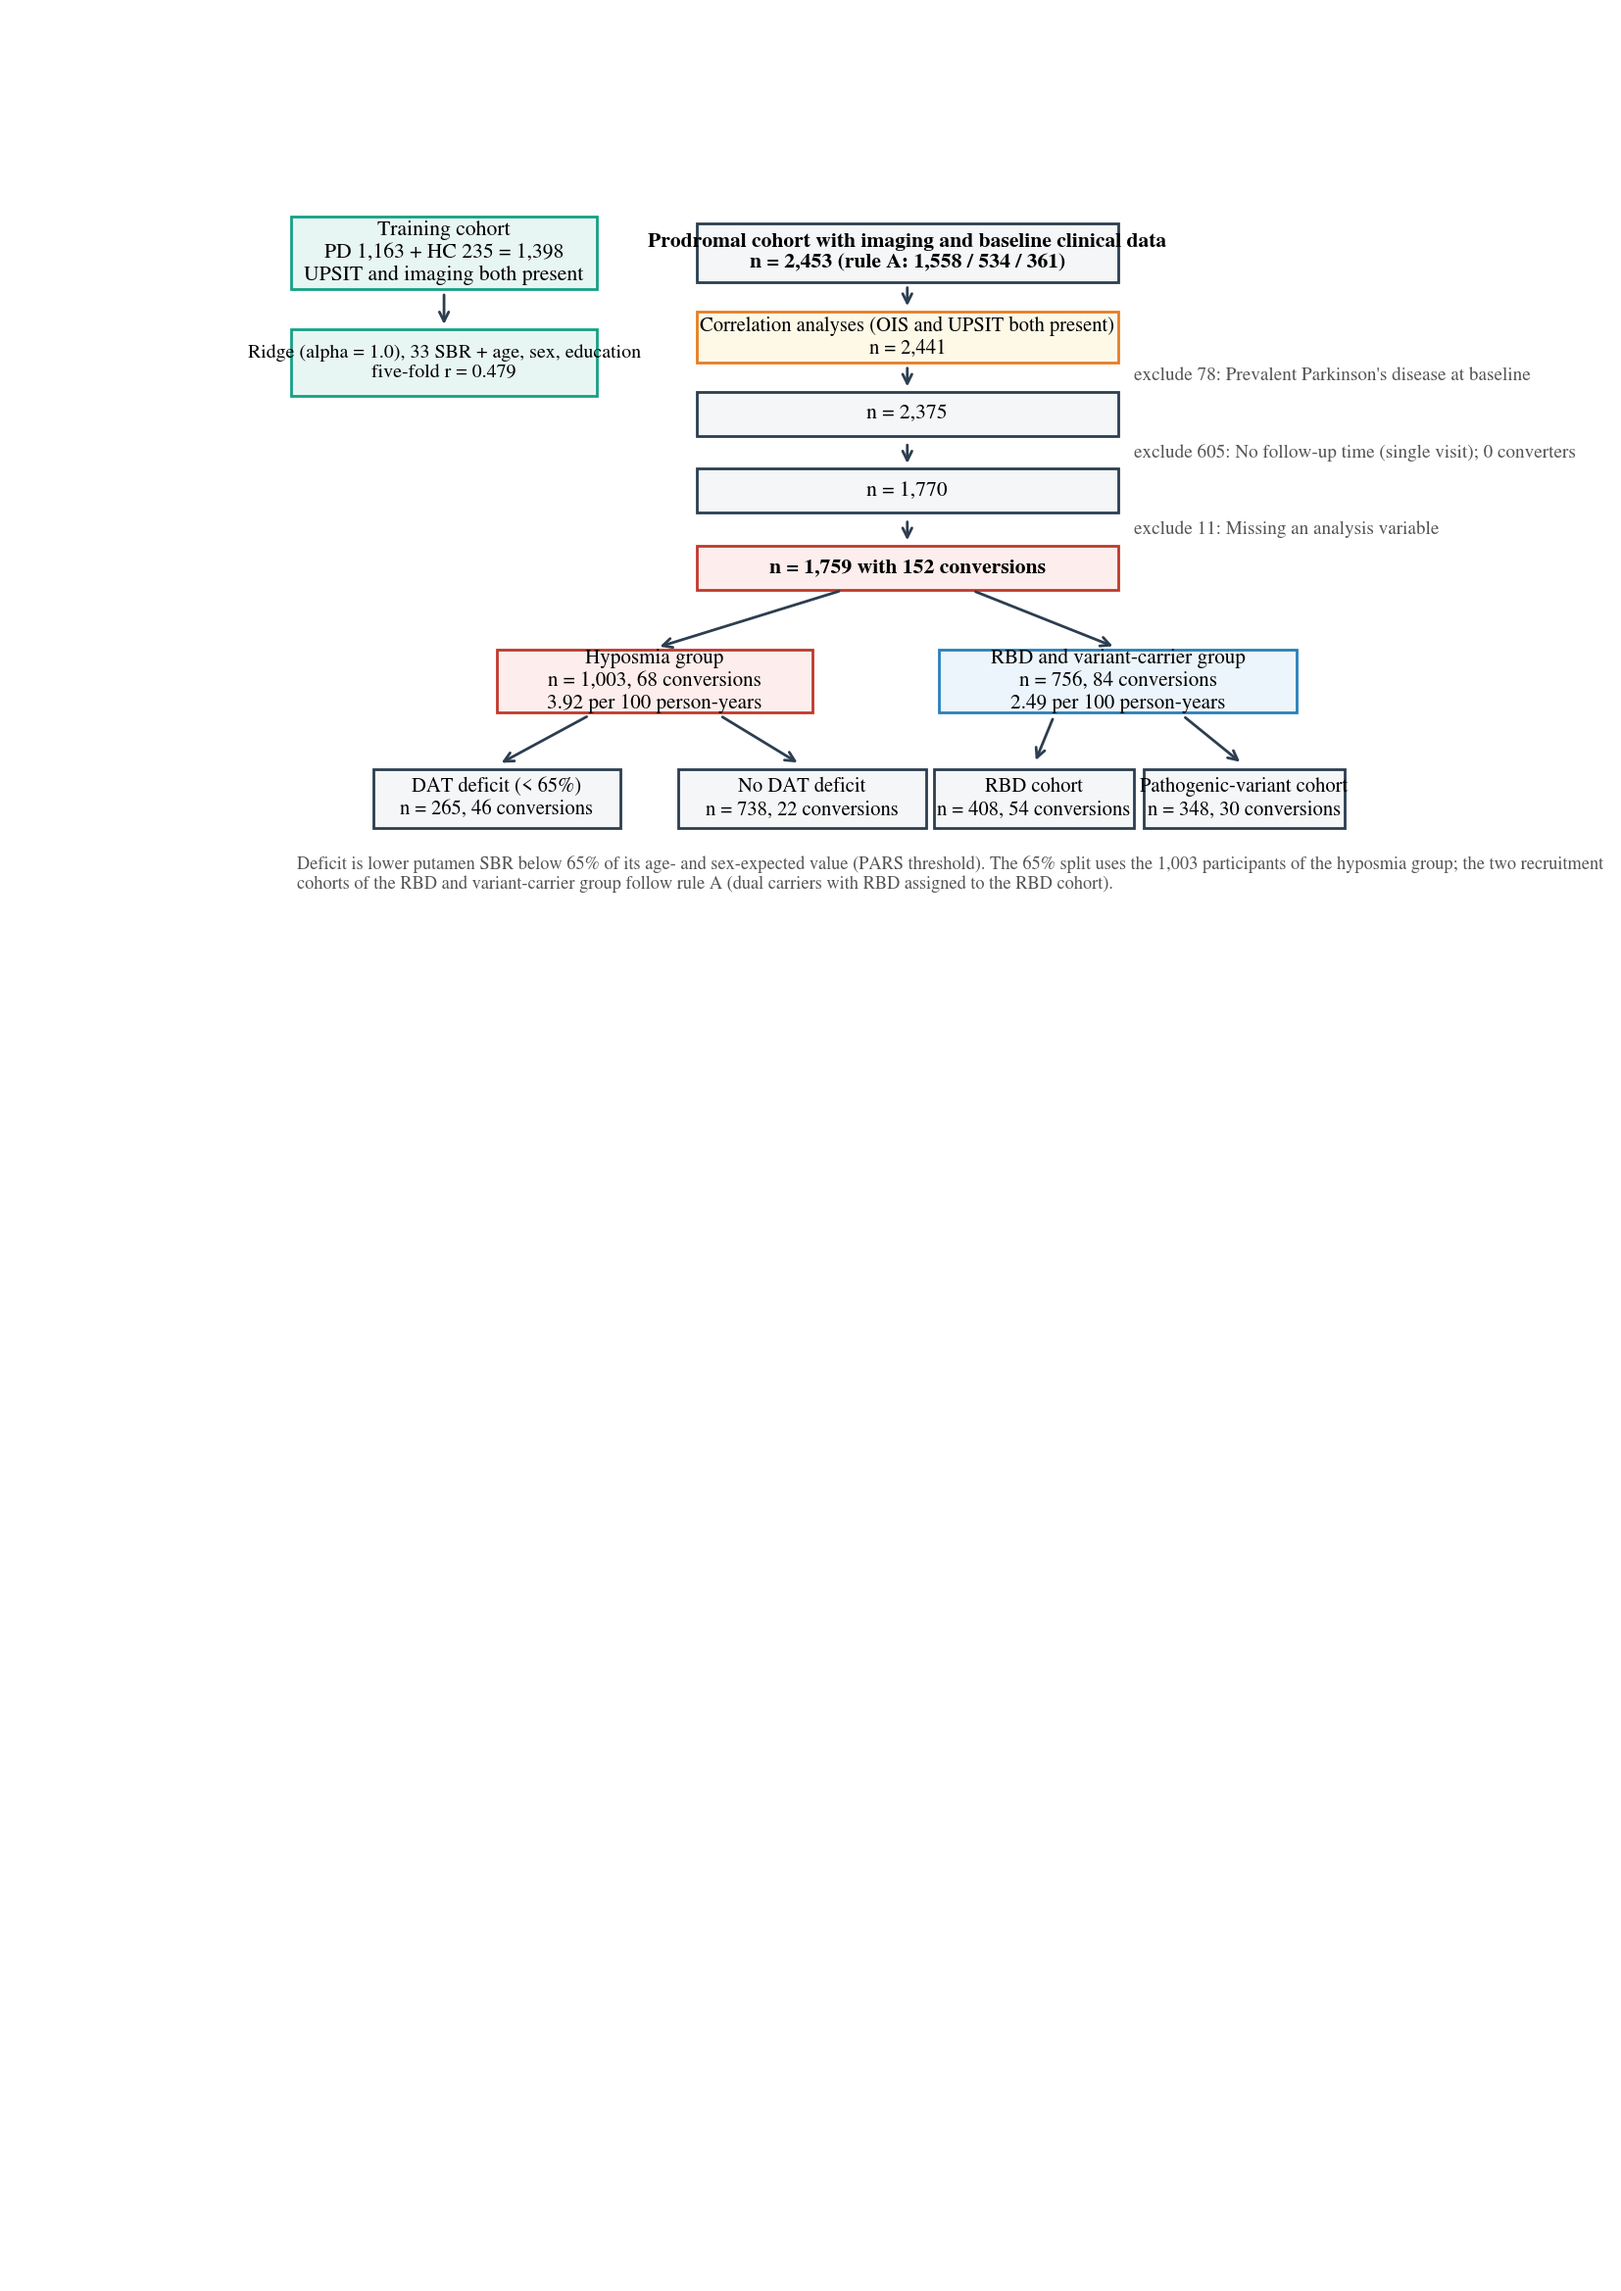
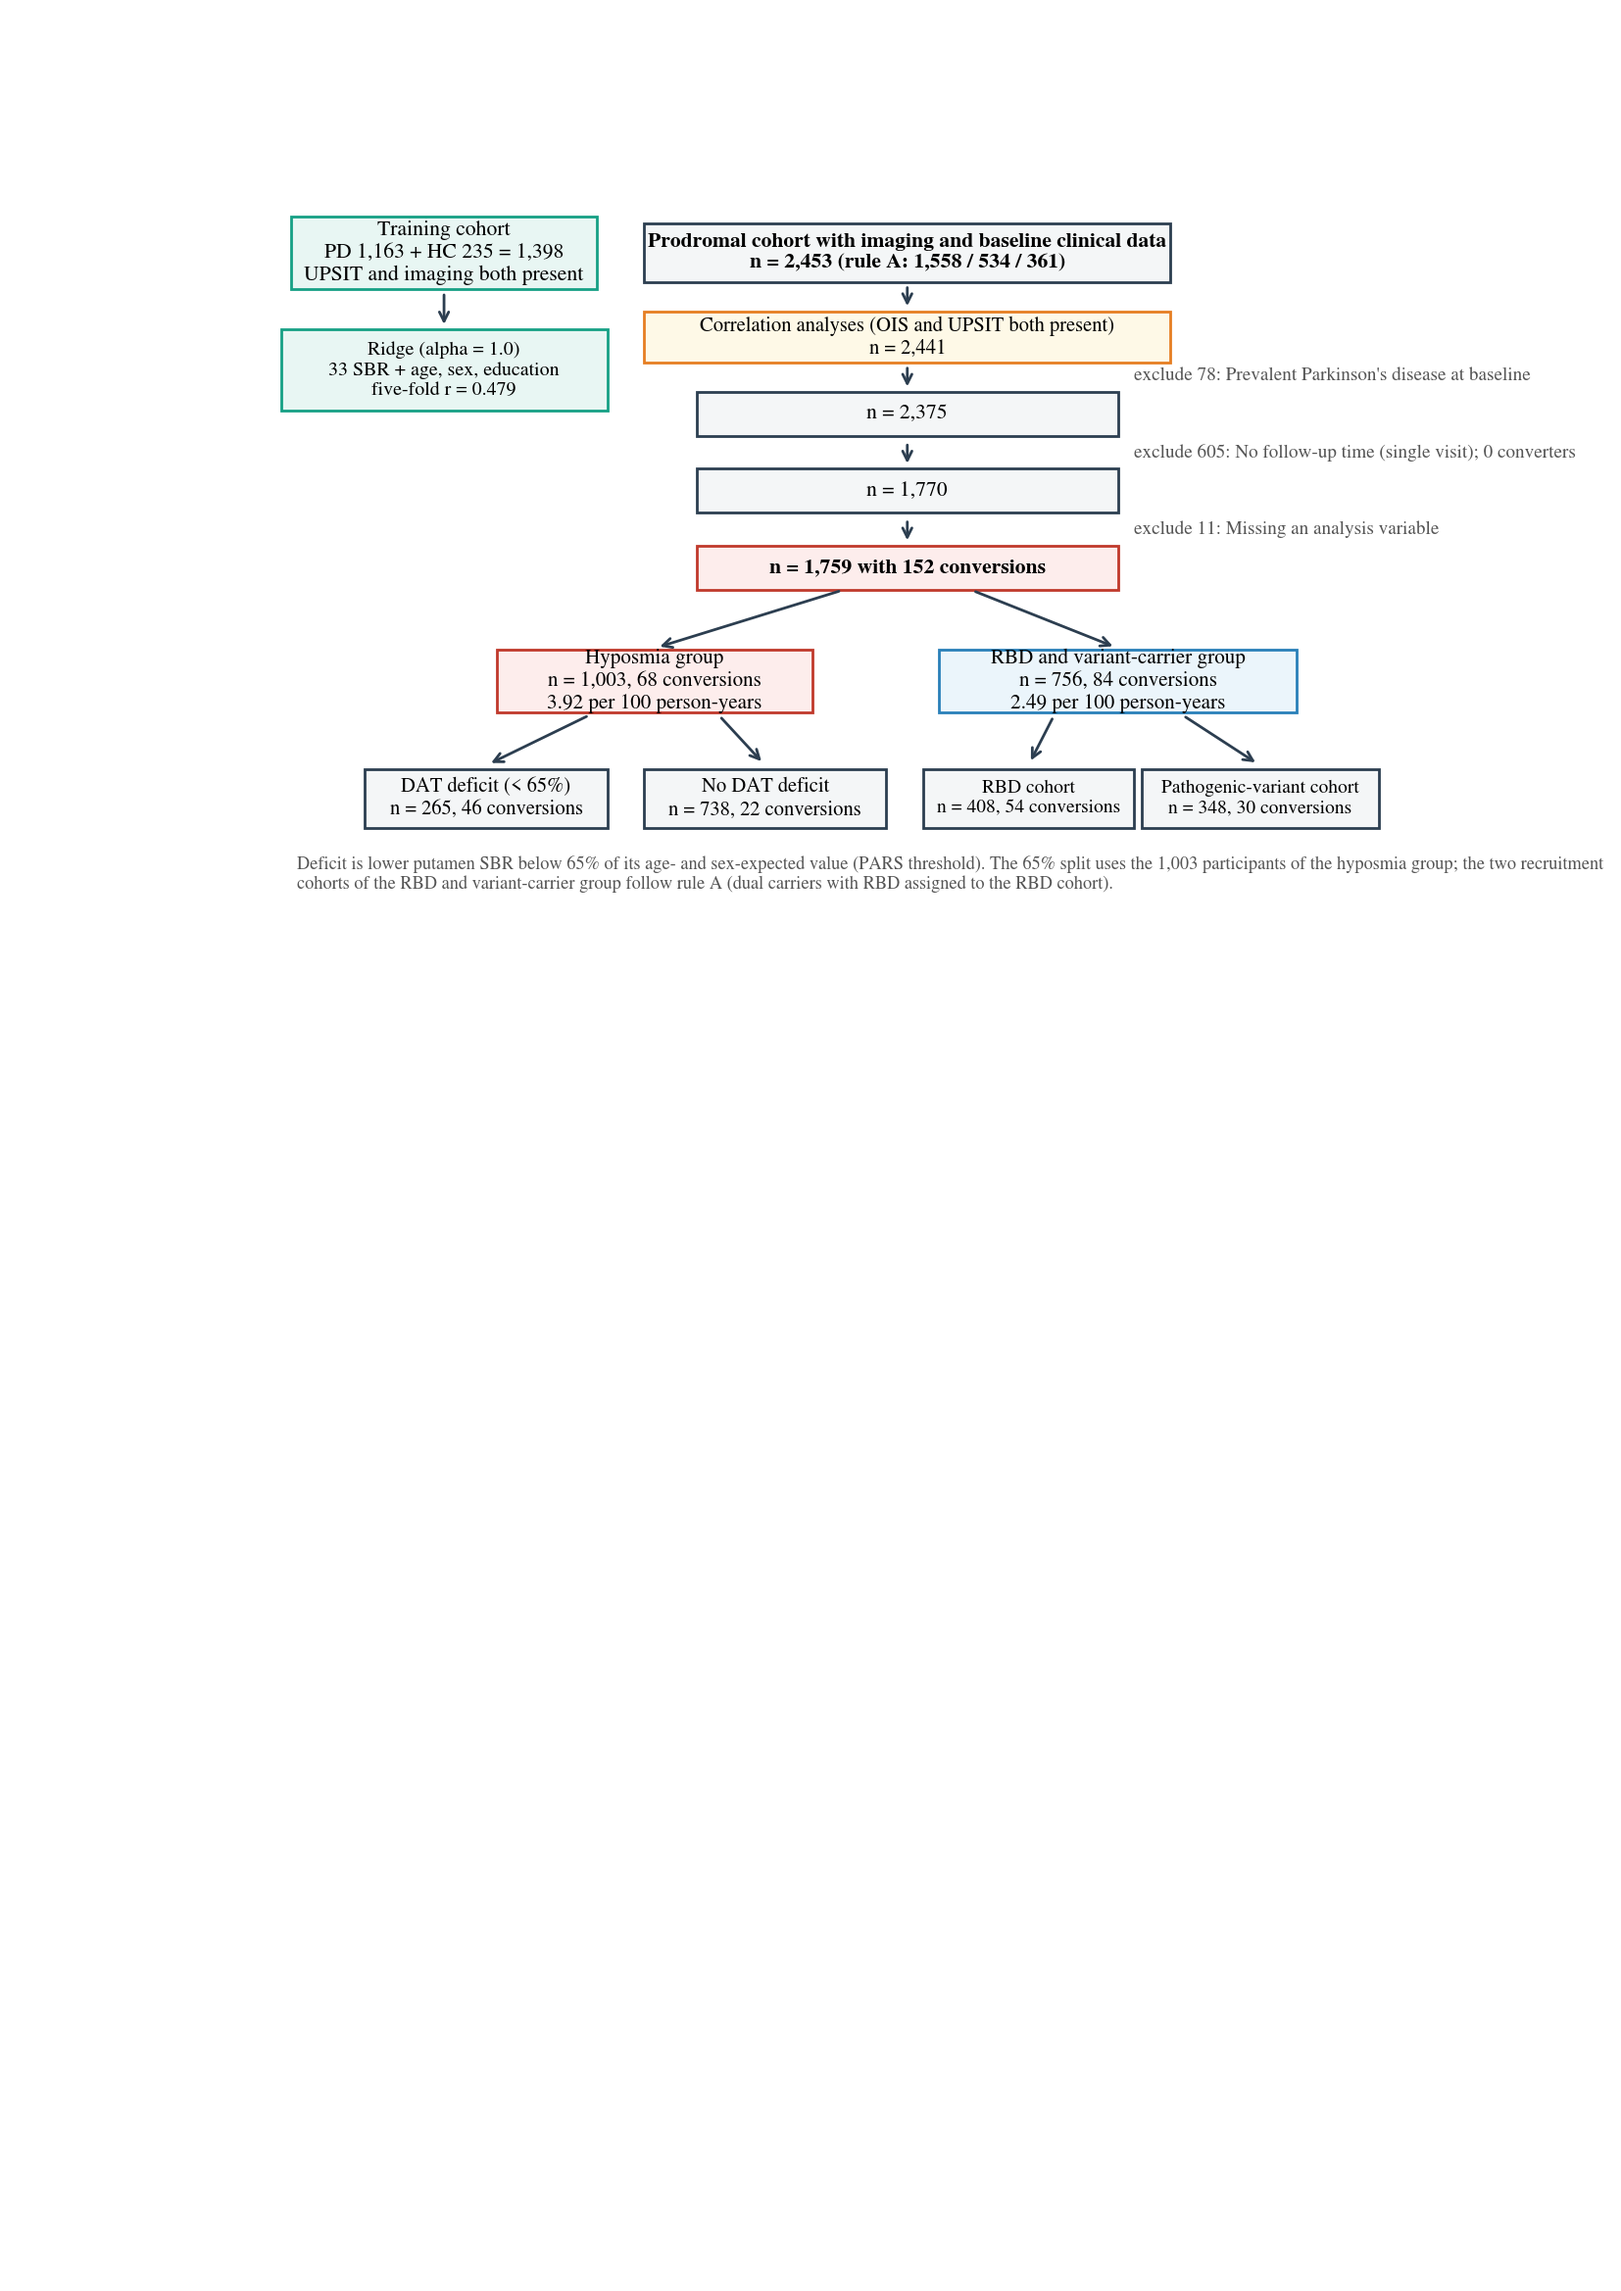
Supplementary Fig 1: enlarge flow-chart boxes so labels fit

diff --git a/code/10_supplementary.py b/code/10_supplementary.py
@@ -150,14 +150,14 @@ def figS1_flow():
     # training cohort
     box(1.6, 9.2, 2.9, 1.0, T('Training cohort\nPD 1,163 + HC 235 = 1,398\nUPSIT and imaging both present',
                               '训练队列\nPD 1,163 + HC 235 = 1,398\n同时有 UPSIT 与影像'), fc='#E8F6F3', ec=TEAL)
-    box(1.6, 7.7, 2.9, 0.9, T('Ridge (α = 1.0), 33 SBR + age, sex, education\nfive-fold r = 0.479',
-                              '岭回归(α = 1.0),33 SBR + 年龄、性别、教育\n五折 r = 0.479'), fc='#E8F6F3', ec=TEAL, fs=7.2)
+    box(1.6, 7.6, 3.1, 1.1, T('Ridge (α = 1.0)\n33 SBR + age, sex, education\nfive-fold r = 0.479',
+                              '岭回归(α = 1.0)\n33 SBR + 年龄、性别、教育\n五折 r = 0.479'), fc='#E8F6F3', ec=TEAL, fs=7.2)
     arrow(1.6, 8.7, 1.6, 8.15)
     # prodromal flow
     x = 6.0
-    box(x, 9.2, 4.0, 0.8, T('Prodromal cohort with imaging and baseline clinical data\nn = 2,453 (rule A: 1,558 / 534 / 361)',
+    box(x, 9.2, 5.0, 0.8, T('Prodromal cohort with imaging and baseline clinical data\nn = 2,453 (rule A: 1,558 / 534 / 361)',
                             '有影像与基线临床数据的前驱期队列\nn = 2,453(规则 A:1,558 / 534 / 361)'), bold=True)
-    box(x, 8.05, 4.0, 0.7, T('Correlation analyses (OIS and UPSIT both present)\nn = 2,441',
+    box(x, 8.05, 5.0, 0.7, T('Correlation analyses (OIS and UPSIT both present)\nn = 2,441',
                              '相关分析(OIS 与 UPSIT 均有)\nn = 2,441'), fc='#FEF9E7', ec=ORANGE, fs=7.4)
     arrow(x, 8.8, x, 8.4)
     steps = [(T('Prevalent Parkinson\'s disease at baseline', '基线即已确诊帕金森病'), 78, 2375),
@@ -178,12 +178,12 @@ def figS1_flow():
     box(8.0, 3.35, 3.4, 0.85, T(f'RBD and variant-carrier group\nn = {int(nh.n):,}, {int(nh.events)} conversions\n{nh.rate_per_100py:.2f} per 100 person-years',
                                 f'RBD 与遗传携带组\n{int(nh.n):,} 人,{int(nh.events)} 例转化\n每百人年 {nh.rate_per_100py:.2f}'), fc='#EBF5FB', ec=BLUE, fs=7.6)
     arrow(x - 0.6, 4.6, 3.6, 3.8); arrow(x + 0.6, 4.6, 8.0, 3.8)
-    box(2.1, 1.75, 2.35, 0.8, T(f'DAT deficit (< 65%)\nn = {265}, {46} conversions', f'DAT 缺损(< 65%)\n265 人,46 例转化'), fs=7.4)
-    box(5.0, 1.75, 2.35, 0.8, T(f'No DAT deficit\nn = {738}, {22} conversions', f'DAT 非缺损\n738 人,22 例转化'), fs=7.4)
-    arrow(3.0, 2.9, 2.1, 2.2); arrow(4.2, 2.9, 5.0, 2.2)
-    box(7.2, 1.75, 1.9, 0.8, T(f'RBD cohort\nn = {int(rbd.n)}, {int(rbd.events)} conversions', f'RBD 队列\n{int(rbd.n)} 人,{int(rbd.events)} 例转化'), fs=7.4)
-    box(9.2, 1.75, 1.9, 0.8, T(f'Pathogenic-variant cohort\nn = {int(gen.n)}, {int(gen.events)} conversions', f'遗传携带队列\n{int(gen.n)} 人,{int(gen.events)} 例转化'), fs=7.4)
-    arrow(7.4, 2.9, 7.2, 2.2); arrow(8.6, 2.9, 9.2, 2.2)
+    box(2.0, 1.75, 2.3, 0.8, T(f'DAT deficit (< 65%)\nn = {265}, {46} conversions', f'DAT 缺损(< 65%)\n265 人,46 例转化'), fs=7.4)
+    box(4.65, 1.75, 2.3, 0.8, T(f'No DAT deficit\nn = {738}, {22} conversions', f'DAT 非缺损\n738 人,22 例转化'), fs=7.4)
+    arrow(3.0, 2.9, 2.0, 2.2); arrow(4.2, 2.9, 4.65, 2.2)
+    box(7.15, 1.75, 2.0, 0.8, T(f'RBD cohort\nn = {int(rbd.n)}, {int(rbd.events)} conversions', f'RBD 队列\n{int(rbd.n)} 人,{int(rbd.events)} 例转化'), fs=7.0)
+    box(9.35, 1.75, 2.25, 0.8, T(f'Pathogenic-variant cohort\nn = {int(gen.n)}, {int(gen.events)} conversions', f'遗传携带队列\n{int(gen.n)} 人,{int(gen.events)} 例转化'), fs=7.0)
+    arrow(7.4, 2.9, 7.15, 2.2); arrow(8.6, 2.9, 9.35, 2.2)
     ax.text(0.2, 0.55, T('Deficit is lower putamen SBR below 65% of its age- and sex-expected value (PARS threshold). '
                          'The 65% split uses the 1,003 participants of the hyposmia group; the two recruitment cohorts of the RBD and variant-carrier group '
                          'follow rule A (dual carriers with RBD assigned to the RBD cohort).',
